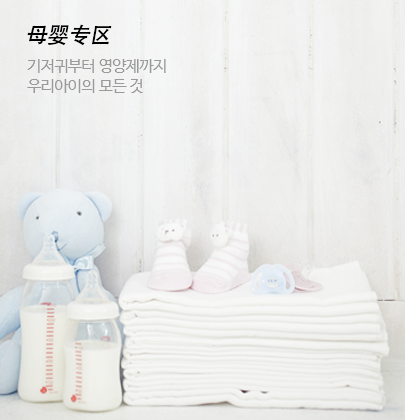
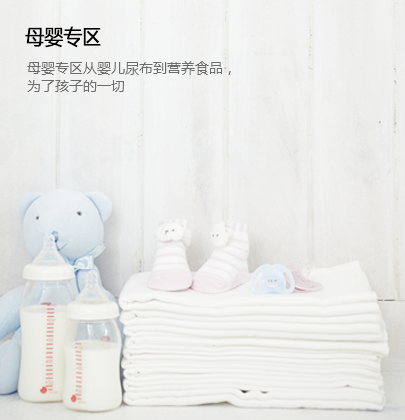
MAIN 特色市场 사이즈 조정 image  수정

Changed region(s): [[0.0593, 0.0619, 0.563, 0.2167]]

diff --git a/oozoobox/css/oz_mh/oz_mh.css b/oozoobox/css/oz_mh/oz_mh.css
@@ -246,10 +246,10 @@ fieldset legend{display: none;}
 .oz_channel_con .module_body .small_chn_con .small_chn .title_chn { margin: 10px 0px 0px 20px; width: 120px; height: 100%; overflow: hidden; float: left;}
 .oz_channel_con .module_body .small_chn_con .small_chn .title_chn_right { margin: 20px 20px 0px 0px; width: 180px; height: 90%; float: right;}
 
-.oz_channel_con .module_body .small_chn_con .small_chn .title_chn .title { color: rgb(47, 47, 47); line-height: 100%; padding-top: 16px; font-size: 19px; font-weight: 700; white-space: nowrap;}
-.oz_channel_con .module_body .small_chn_con .small_chn .title_chn_right .title_right {float:right; color: rgb(47, 47, 47); line-height: 100%; padding-top: 16px; font-size: 19px; font-weight: 700; white-space: nowrap; width:100%; text-align:right;}
-.oz_channel_con .module_body .small_chn_con .small_chn .title_chn .info { color: rgb(102, 102, 102); line-height: 120%; font-size: 13px; margin-top: 6px; white-space: nowrap;}
-.oz_channel_con .module_body .small_chn_con .small_chn .title_chn_right .info_right {float:right; color: rgb(102, 102, 102); line-height: 120%; font-size: 13px; margin-top: 6px; white-space: nowrap; text-align:right;}
+.oz_channel_con .module_body .small_chn_con .small_chn .title_chn .title { color: rgb(47, 47, 47); line-height: 100%; padding:16px 0 5px 0; font-size: 19px; font-weight: 700; white-space: nowrap; }
+.oz_channel_con .module_body .small_chn_con .small_chn .title_chn_right .title_right {float:right; color: rgb(47, 47, 47); line-height: 100%; padding:16px 0 5px 0; font-size: 19px; font-weight: 700; white-space: nowrap; width:100%; text-align:right;}
+.oz_channel_con .module_body .small_chn_con .small_chn .title_chn .info { color: rgb(102, 102, 102); line-height:130%; font-size: 13px; margin-top:8px; white-space: nowrap; letter-spacing:0.5px;}
+.oz_channel_con .module_body .small_chn_con .small_chn .title_chn_right .info_right {float:right; color: rgb(102, 102, 102); line-height: 130%; font-size: 13px; margin-top: 6px; white-space: nowrap; text-align:right; letter-spacing:0.5px;}
 .oz_channel_con .module_body .small_chn_con .small_chn .chn_pic_right { width: 190px; height: 210px; float: right;}
 .oz_channel_con .module_body .small_chn_con .small_chn .chn_pic_left { width: 190px; height: 210px; float: left;}
 @media all and (max-width:1910px)
@@ -258,7 +258,11 @@ fieldset legend{display: none;}
 .oz_channel_con .module_body .small_chn_con { height: 318px; overflow: hidden;}
 .oz_channel_con .module_body .small_chn_con .seprate { height: 115px;}
 .oz_channel_con .module_body .small_chn_con .small_chn { width:33.25%; height: 48%;}
-.oz_channel_con .module_body .small_chn_con .small_chn .title_con { width: 106px; display: inline;}
+.oz_channel_con .module_body .small_chn_con .small_chn .title_chn .title { font-size: 16px; }
+.oz_channel_con .module_body .small_chn_con .small_chn .title_con { width:106px; display: inline;}
+.oz_channel_con .module_body .small_chn_con .under_chn {margin-top:15px;}
+.oz_channel_con .module_body .small_chn_con .small_chn .title_chn_right .title_right {font-size: 16px;}
+.oz_channel_con .module_body .small_chn_con .small_chn .title_chn_right {width:136px;}
 .oz_channel_con .module_body .small_chn_con .small_chn .chn_pic_right { width: 136px; height: 150px; overflow:hidden;}
 .oz_channel_con .module_body .small_chn_con .small_chn .chn_pic_left { width: 136px; height: 150px; overflow:hidden;}
 }
@@ -271,6 +275,10 @@ fieldset legend{display: none;}
 .oz_channel_con .module_body .small_chn_con .seprate { height: 115px;}
 .oz_channel_con .module_body .small_chn_con .hidden_990.seprate { display: none;}
 .oz_channel_con .module_body .small_chn_con .small_chn { width: 49.8%; height: 48%;}
+.oz_channel_con .module_body .small_chn_con .small_chn .title_chn .title { font-size: 16px; }
+.oz_channel_con .module_body .small_chn_con .under_chn {margin-top:33px;}
+.oz_channel_con .module_body .small_chn_con .small_chn .title_chn_right .title_right {font-size: 16px;}
+.oz_channel_con .module_body .small_chn_con .small_chn .title_chn_right {width:136px;}
 .oz_channel_con .module_body .small_chn_con .small_chn .hn_pic_right { width: 168px; height: 185px; float: left; display: block; z-index: 10000;}
 .oz_channel_con .module_body .small_chn_con .small_chn .hn_pic_left { width: 168px; height: 185px; float: left; display: block; z-index: 10000;}
 .oz_channel_con .module_body .small_chn_con .hidden_990.small_chn { display: none;}

diff --git a/oozoobox/thema/Basic/shop.index.php b/oozoobox/thema/Basic/shop.index.php
@@ -123,7 +123,7 @@ $result = sql_query($sql);
             	<a class="small_banner">
                 	<img width="170" height="440" alt="" src="/images/small_banner01.png"/>
                     <div class="small_banner_btn">
-                    	<span class="btn_object">지금투표하러가기</span>
+                    	<span class="btn_object">现在就去投票吧</span>
                     </div>
                 </a>           
             </div>
@@ -165,7 +165,7 @@ $result = sql_query($sql);
                 	<a class="small_chn">
                     	<div class="title_chn">
                         	<h3 class="title">时尚</h3>
-                            <h4 class="info">한국은 지금<br>어떤 옷이 유행할까</h4>
+                            <h4 class="info">为您实时解析<br>韩国最新时尚<br>流行服饰</h4>
                         </div>
                         <img class="chn_pic_right" src="/images/small_chn_01.png"/>
                     </a>
@@ -173,7 +173,7 @@ $result = sql_query($sql);
                     <a class="small_chn">
                     	<div class="title_chn">
                         	<h3 class="title">食品</h3>
-                            <h4 class="info">오늘 저녁 밥상이<br>다채로워 진다<br>음식의 모든 것</h4>
+                            <h4 class="info">您今天的晚餐桌<br>将变得更加丰富。<br>关于美食的一切</h4>
                         </div>
                         <img class="chn_pic_right" src="/images/small_chn_02.png"/>
                     </a>
@@ -181,31 +181,31 @@ $result = sql_query($sql);
                     <a class="small_chn hidden_990 last_chn">
                     	<div class="title_chn">
                         	<h3 class="title">推荐商品</h3>
-                            <h4 class="info">당신만을 위한<br>맞춤상품!<br>지금 추천해 드려요</h4>
+                            <h4 class="info">为了独一无二的<br>您的定制商品！<br>现在开始向您推荐！</h4>
                         </div>
                         <img class="chn_pic_right" src="/images/small_chn_03.png"/>
                     </a>
-                    <a class="small_chn">
+                    <a class="small_chn under_chn">
                         <img class="chn_pic_left" src="/images/small_chn_04.png"/>
                         <div class="title_chn_right">
                             <h3 class="title_right">化妆品</h3>
-                            <h4 class="info_right">소중한 당신을<br>더욱 특별하게</h4>
+                            <h4 class="info_right">为了让尊贵的您<br>变得更与众不同</h4>
                         </div>
                     </a>
                     <s class="seprate "></s> 
-                    <a class="small_chn">
+                    <a class="small_chn under_chn">
                         <img class="chn_pic_left" src="/images/small_chn_05.png"/>
                         <div class="title_chn_right">
                             <h3 class="title_right">日常用品</h3>
-                            <h4 class="info_right">작은 변화가<br>일상을 바꾸다</h4>
+                            <h4 class="info_right">从细节开始<br>改变您的日常生活</h4>
                         </div>                      
                     </a>
                     <s class="seprate hidden_990"></s> 
-                    <a class="small_chn hidden_990">
+                    <a class="small_chn hidden_990 under_chn">
                         <img class="chn_pic_left" src="/images/small_chn_06.png"/>
                         <div class="title_chn_right">
                             <h3 class="title_right">特价</h3>
-                            <h4 class="info_right">OOZOOBOX의 특가제품을<br>만나는 특별한 기회를<br>놓치지 마세요</h4>
+                            <h4 class="info_right">请不要错过<br>OOZOOBOX物<br>美价廉的特别商品企划!</h4>
                         </div>
                     </a>
                 </div>
